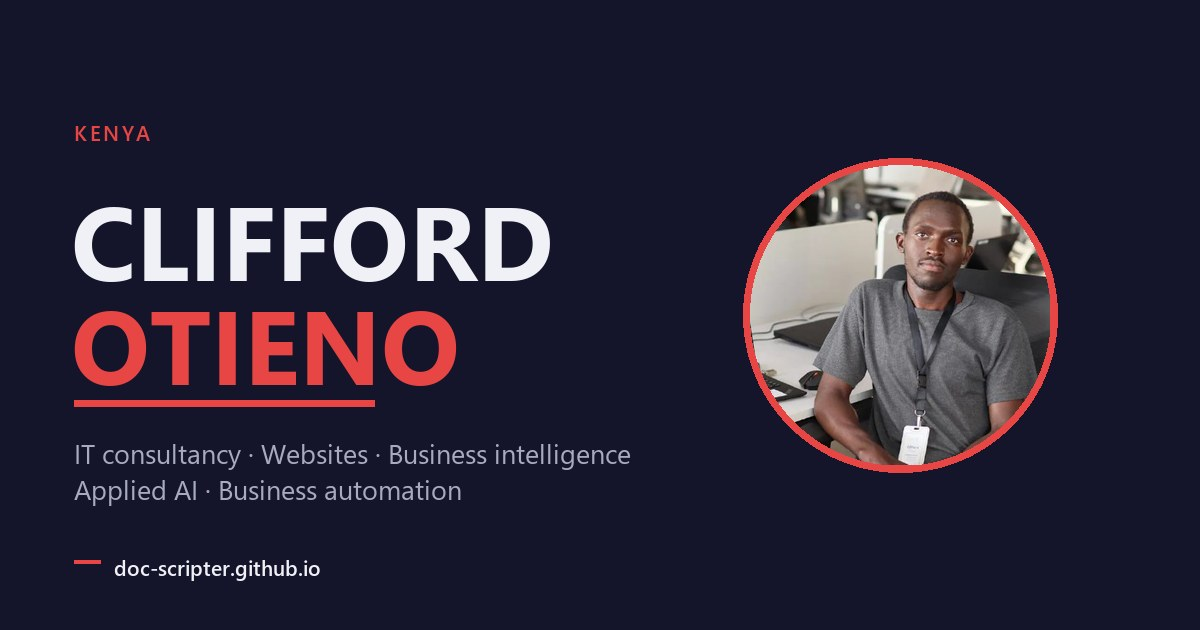
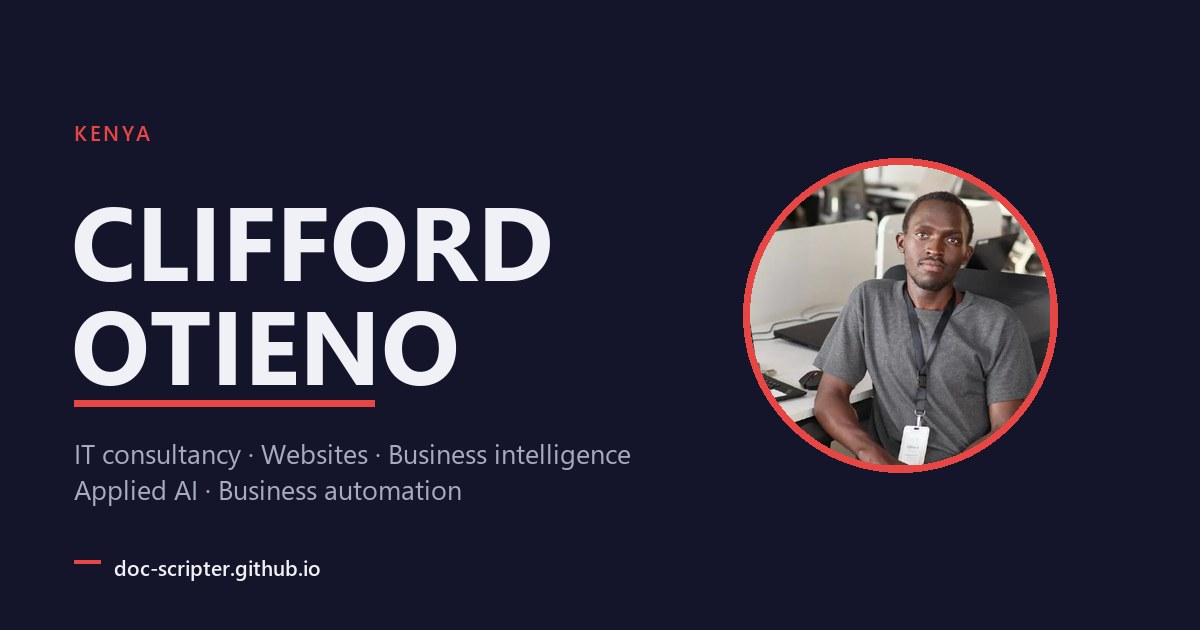
feat(brand): render the surname in white on the social cover
OTIENO now matches CLIFFORD in white, with the theme-red underline kept as the only accent. Also removes a stray tagline that was colliding with the name, and bumps the cover cache-bust to v=7.

Changed region(s): [[0.0617, 0.4825, 0.4008, 0.6333]]

diff --git a/index.html b/index.html
@@ -13,13 +13,13 @@
   <meta property="og:title" content="Clifford Otieno | IT Consultancy, BI, Applied AI & Business Automation" />
   <meta property="og:description" content="IT consultancy, BI, applied AI & automation for Kenyan businesses. Websites, WordPress & WooCommerce, booking, SEO. Open to full-time roles. Free quote." />
   <meta property="og:url" content="https://doc-scripter.github.io/" />
-  <meta property="og:image" content="https://doc-scripter.github.io/static/images/og-cover.jpg?v=6" />
+  <meta property="og:image" content="https://doc-scripter.github.io/static/images/og-cover.jpg?v=7" />
   <meta property="og:image:width" content="1200" />
   <meta property="og:image:height" content="630" />
   <meta name="twitter:card" content="summary_large_image" />
   <meta name="twitter:title" content="Clifford Otieno | IT Consultancy, BI, Applied AI & Business Automation" />
   <meta name="twitter:description" content="IT consultancy, BI, applied AI & automation for Kenyan businesses. Websites, WordPress & WooCommerce, booking, SEO. Open to full-time roles. Free quote." />
-  <meta name="twitter:image" content="https://doc-scripter.github.io/static/images/og-cover.jpg?v=6" />
+  <meta name="twitter:image" content="https://doc-scripter.github.io/static/images/og-cover.jpg?v=7" />
   <link rel="icon" type="image/png" sizes="64x64" href="favicon.png" />
   <link rel="preload" href="static/fonts/space-grotesk-700.woff2" as="font" type="font/woff2" crossorigin />
   <link rel="preload" href="static/fonts/inter-var.woff2" as="font" type="font/woff2" crossorigin />
